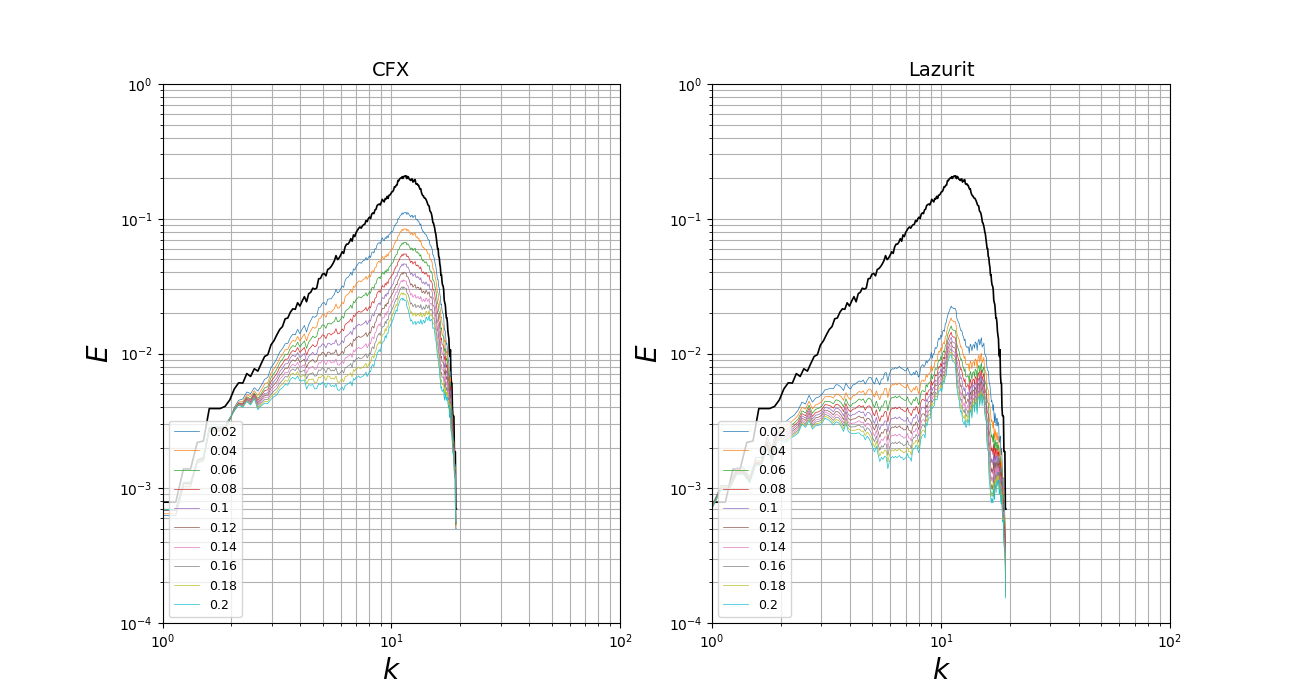
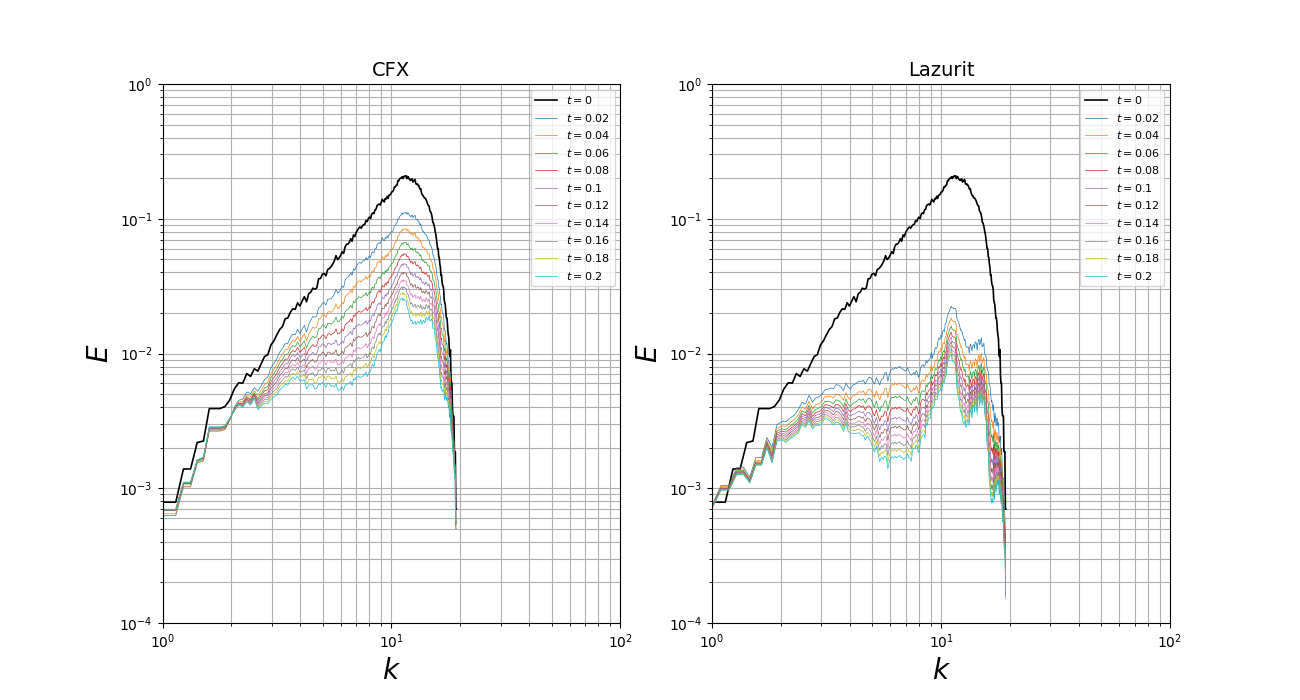
Change spectrum history plot

diff --git a/diht_analysis/analyse_spectrum.py b/diht_analysis/analyse_spectrum.py
@@ -18,7 +18,7 @@ def set_plot(title: str, legend: bool=False):
     plt.ylabel(r'$E$', fontsize=20)
     plt.title(title, fontsize=14)
     if legend:
-        plt.legend(fontsize=9, loc=3)
+        plt.legend(fontsize=8, loc=0)
     plt.ylim(10e-5, 10e-1)
     plt.xlim(1, 10e1)
 
@@ -28,7 +28,7 @@ def plot_initial_spectrum():
     spectrum = SpatialSpectrum3d(config.i_cnt, config.j_cnt, config.k_cnt,
                                  config.grid_step, u_arr, v_arr, w_arr, 200)
     spectrum.compute_spectrum()
-    plt.plot(spectrum.k_abs_arr, spectrum.energy_sum_arr, lw=1.2, color='black')
+    plt.plot(spectrum.k_abs_arr, spectrum.energy_sum_arr, lw=1.2, color='black', label=r'$t = 0$')
 
 
 def plot_spectrum(i_cnt, j_cnt, k_cnt, frames: typing.List[pd.DataFrame], subplot_num: int, title: str,
@@ -42,7 +42,7 @@ def plot_spectrum(i_cnt, j_cnt, k_cnt, frames: typing.List[pd.DataFrame], subplo
         spectrum = SpatialSpectrum3d(i_cnt, j_cnt, k_cnt,
                                      config.grid_step, u_arr, v_arr, w_arr, 200)
         spectrum.compute_spectrum()
-        plt.plot(spectrum.k_abs_arr, spectrum.energy_sum_arr, lw=0.5, label=round(sol_time, 4))
+        plt.plot(spectrum.k_abs_arr, spectrum.energy_sum_arr, lw=0.5, label=r'$t = %s $' % round(sol_time, 3))
     set_plot(title, legend=bool(sol_time_arr))
 
 
